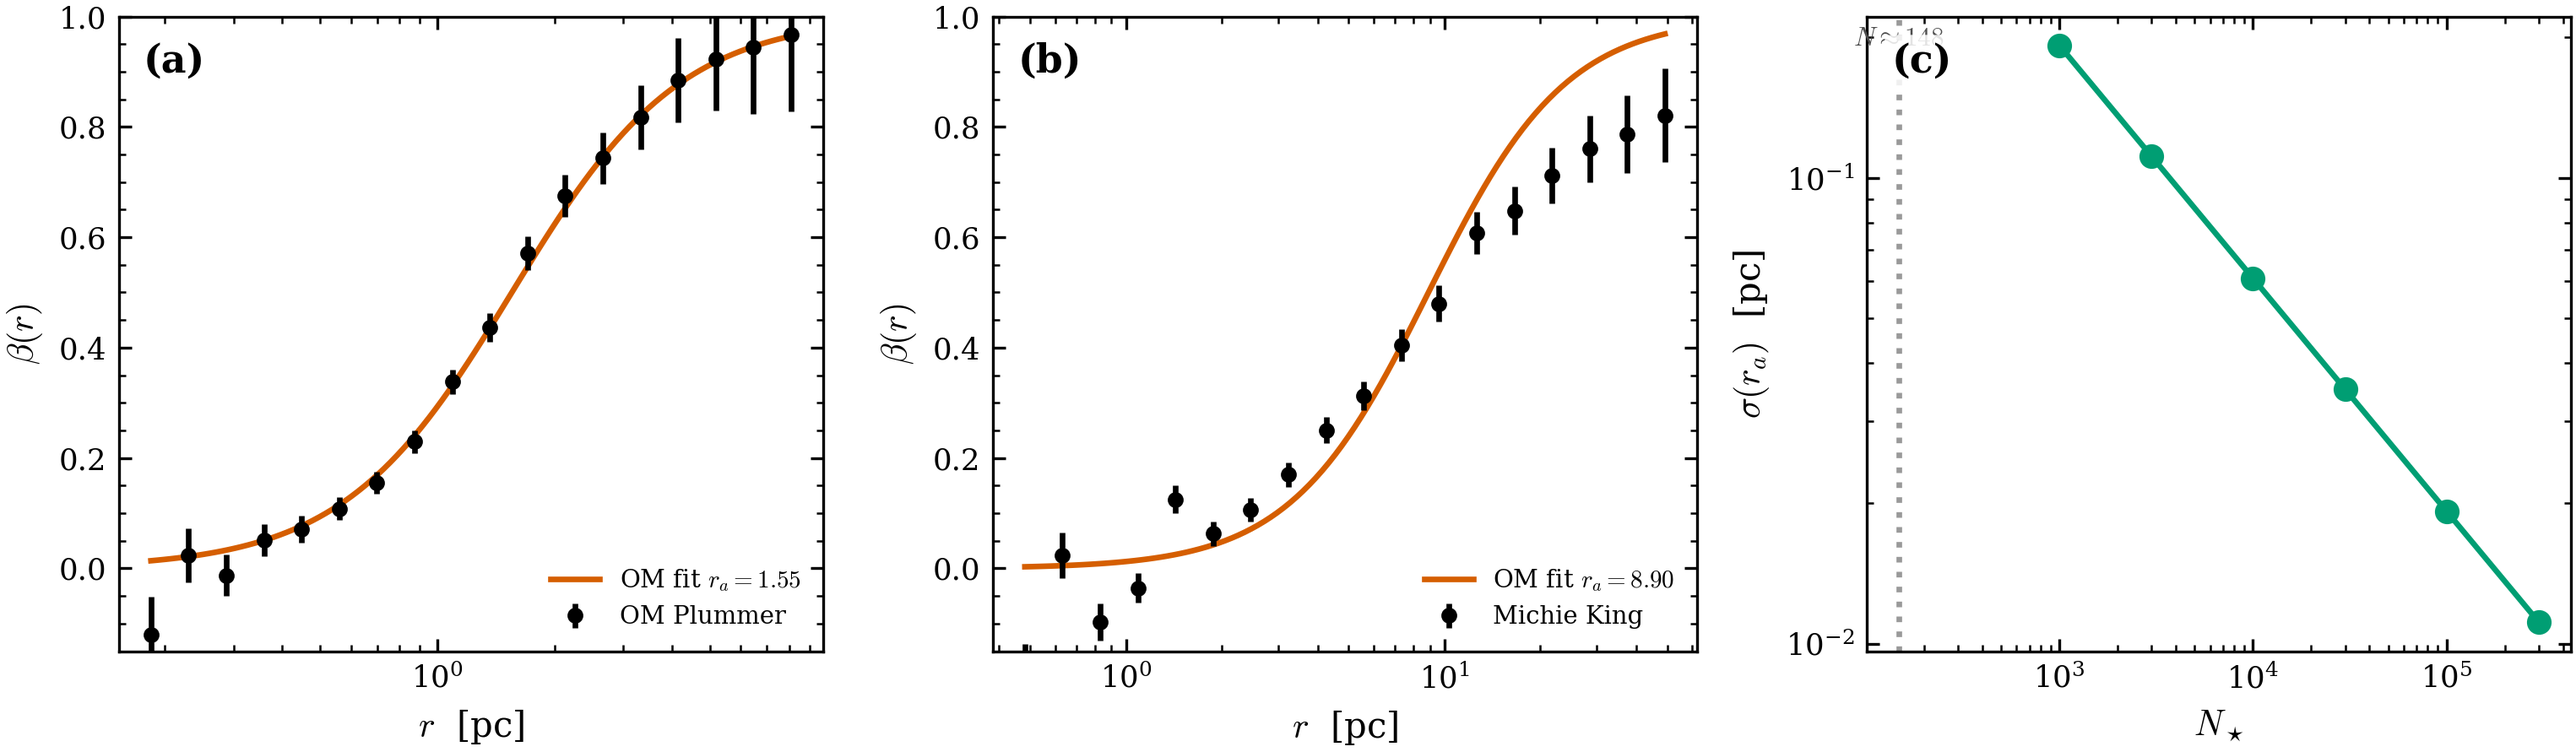
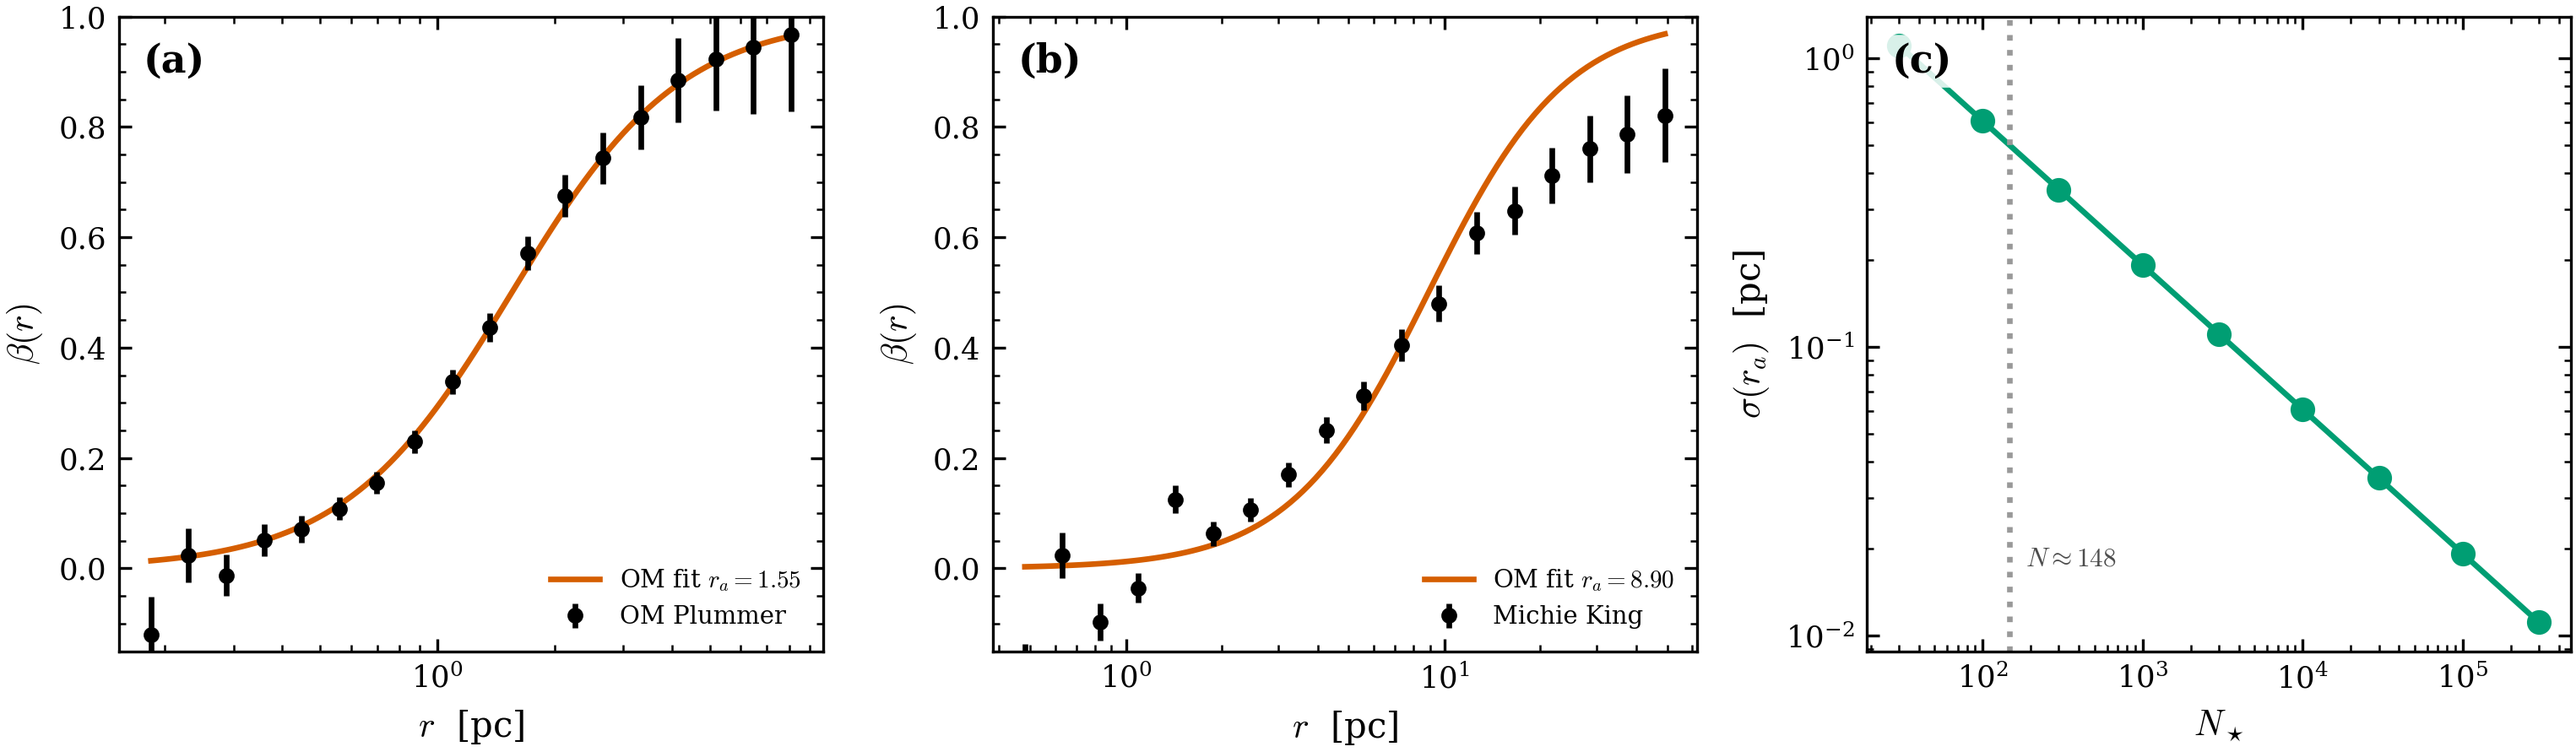
fix(demos): B5/B6 forecast-panel polish — detection-N marker in-range
Visual inspection of the rendered figures found the 3-sigma detection-N marker
(N~57 in B5, N~148 in B6) sat clipped at the far-left edge because it fell BELOW
the plotted N range [1e3, 3e5]. Extend the forecast x-grid down to 30 so the
marker is in-range, and reposition the annotation (bottom, va=bottom) so it does
not collide with the panel label. Both demos still ALL PASS; physics unchanged.

diff --git a/scripts/demo_birth_environment.py b/scripts/demo_birth_environment.py
@@ -146,7 +146,8 @@ def main():
 
     # --- forecast: sigma(alpha3) vs N from the per-star Fisher info --------- #
     info_per_star = 1.0 / (sigma_a3**2 * N_STARS)  # I_total = N * I_1 (CRLB)
-    n_grid = np.array([1e3, 3e3, 1e4, 3e4, 1e5, 3e5, 1e6])
+    # span low N so the 3-sigma detection N (~60) is in-range, not clipped at the edge.
+    n_grid = np.array([3e1, 1e2, 3e2, 1e3, 3e3, 1e4, 3e4, 1e5, 3e5, 1e6])
     sigma_grid = 1.0 / np.sqrt(n_grid * info_per_star)
     delta = abs(ALPHA3_TRUE - ALPHA3_CANON)
     n_3sig = 9.0 / (info_per_star * delta**2)  # N for a 3-sigma top-heavy detection
@@ -250,8 +251,8 @@ def make_figure(masses, a3_hat, sigma_a3, n_grid, sigma_grid, n_3sig, n_emp, sig
     ax.axhline(target, color=OI["vermilion"], ls="--",
                label=r"$\sigma=|\Delta\alpha_3|/3$")
     ax.axvline(n_3sig, color="0.6", ls=":")
-    ax.text(n_3sig, target * 1.4, fr"$N\approx{n_3sig:.0f}$", fontsize=7.5,
-            ha="center", color="0.3")
+    ax.text(n_3sig * 1.25, sigma_grid.min() * 1.5, fr"$N\approx{n_3sig:.0f}$",
+            fontsize=7.5, ha="left", va="bottom", color="0.3")
     ax.set_xlabel(r"$N_\star$")
     ax.set_ylabel(r"$\sigma(\alpha_3)$")
     ax.legend(fontsize=7)

diff --git a/scripts/demo_anisotropy.py b/scripts/demo_anisotropy.py
@@ -168,7 +168,8 @@ def main():
 
     # forecast: sigma(r_a) ~ N^-1/2 from the per-star Fisher info.
     info_per_star = 1.0 / (ra_sig**2 * N_STARS)
-    n_grid = np.array([1e3, 3e3, 1e4, 3e4, 1e5, 3e5])
+    # span low N so the 3-sigma detection N (~150) is in-range, not clipped at the edge.
+    n_grid = np.array([3e1, 1e2, 3e2, 1e3, 3e3, 1e4, 3e4, 1e5, 3e5])
     sigma_grid = 1.0 / np.sqrt(n_grid * info_per_star)
     slope = float(np.polyfit(np.log(n_grid), np.log(sigma_grid), 1)[0])
     n_detect = 9.0 / (info_per_star * RA_OM_TRUE**2)  # 3-sigma r_a vs isotropic
@@ -253,8 +254,8 @@ def make_figure(r_a_mid, beta_a, bse_a, w_a, ra_hat,
     ax = axes[2]
     ax.loglog(n_grid, sigma_grid, "o-", color=OI["green"])
     ax.axvline(n_detect, color="0.6", ls=":")
-    ax.text(n_detect, sigma_grid.max(), fr"$N\approx{n_detect:.0f}$", fontsize=7.5,
-            ha="center", color="0.3")
+    ax.text(n_detect * 1.25, sigma_grid.min() * 1.5, fr"$N\approx{n_detect:.0f}$",
+            fontsize=7.5, ha="left", va="bottom", color="0.3")
     ax.set_xlabel(r"$N_\star$")
     ax.set_ylabel(r"$\sigma(r_a)$  [pc]")
     panel_label(ax, "(c)")
